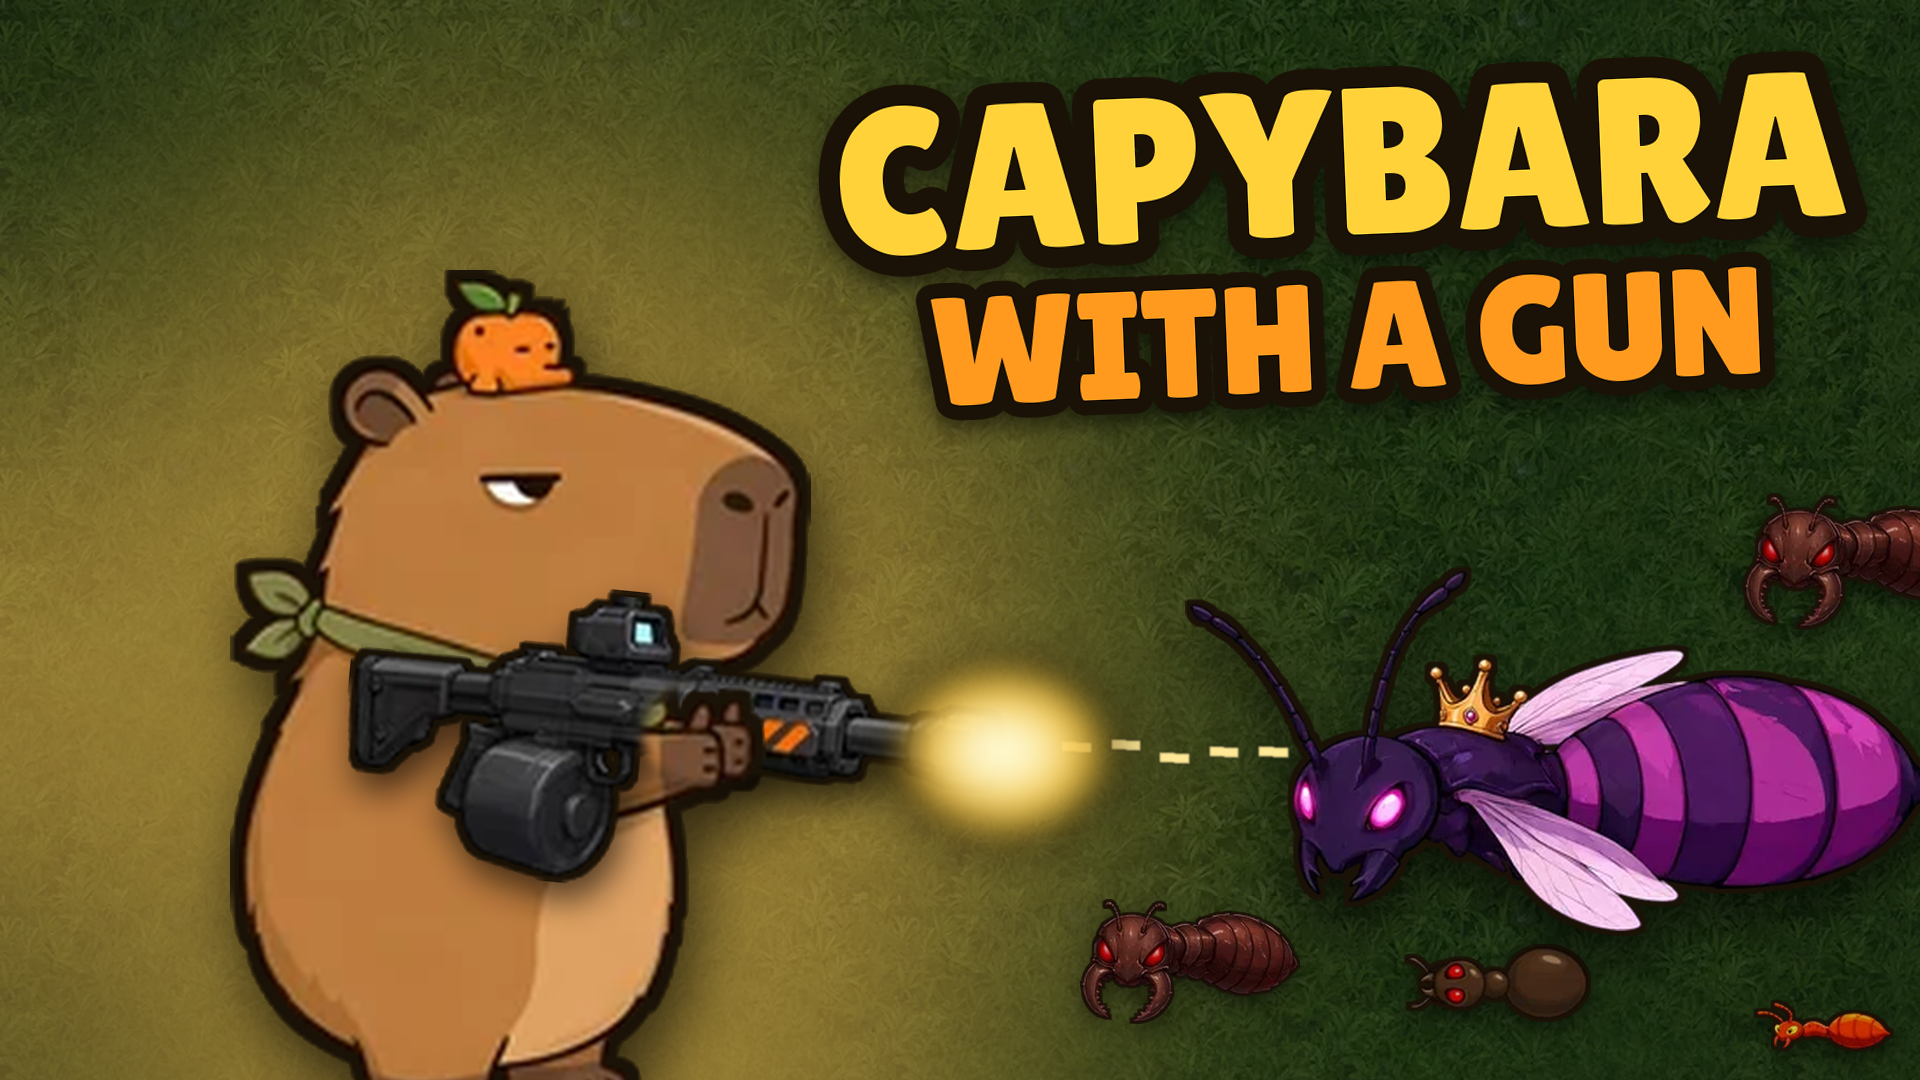
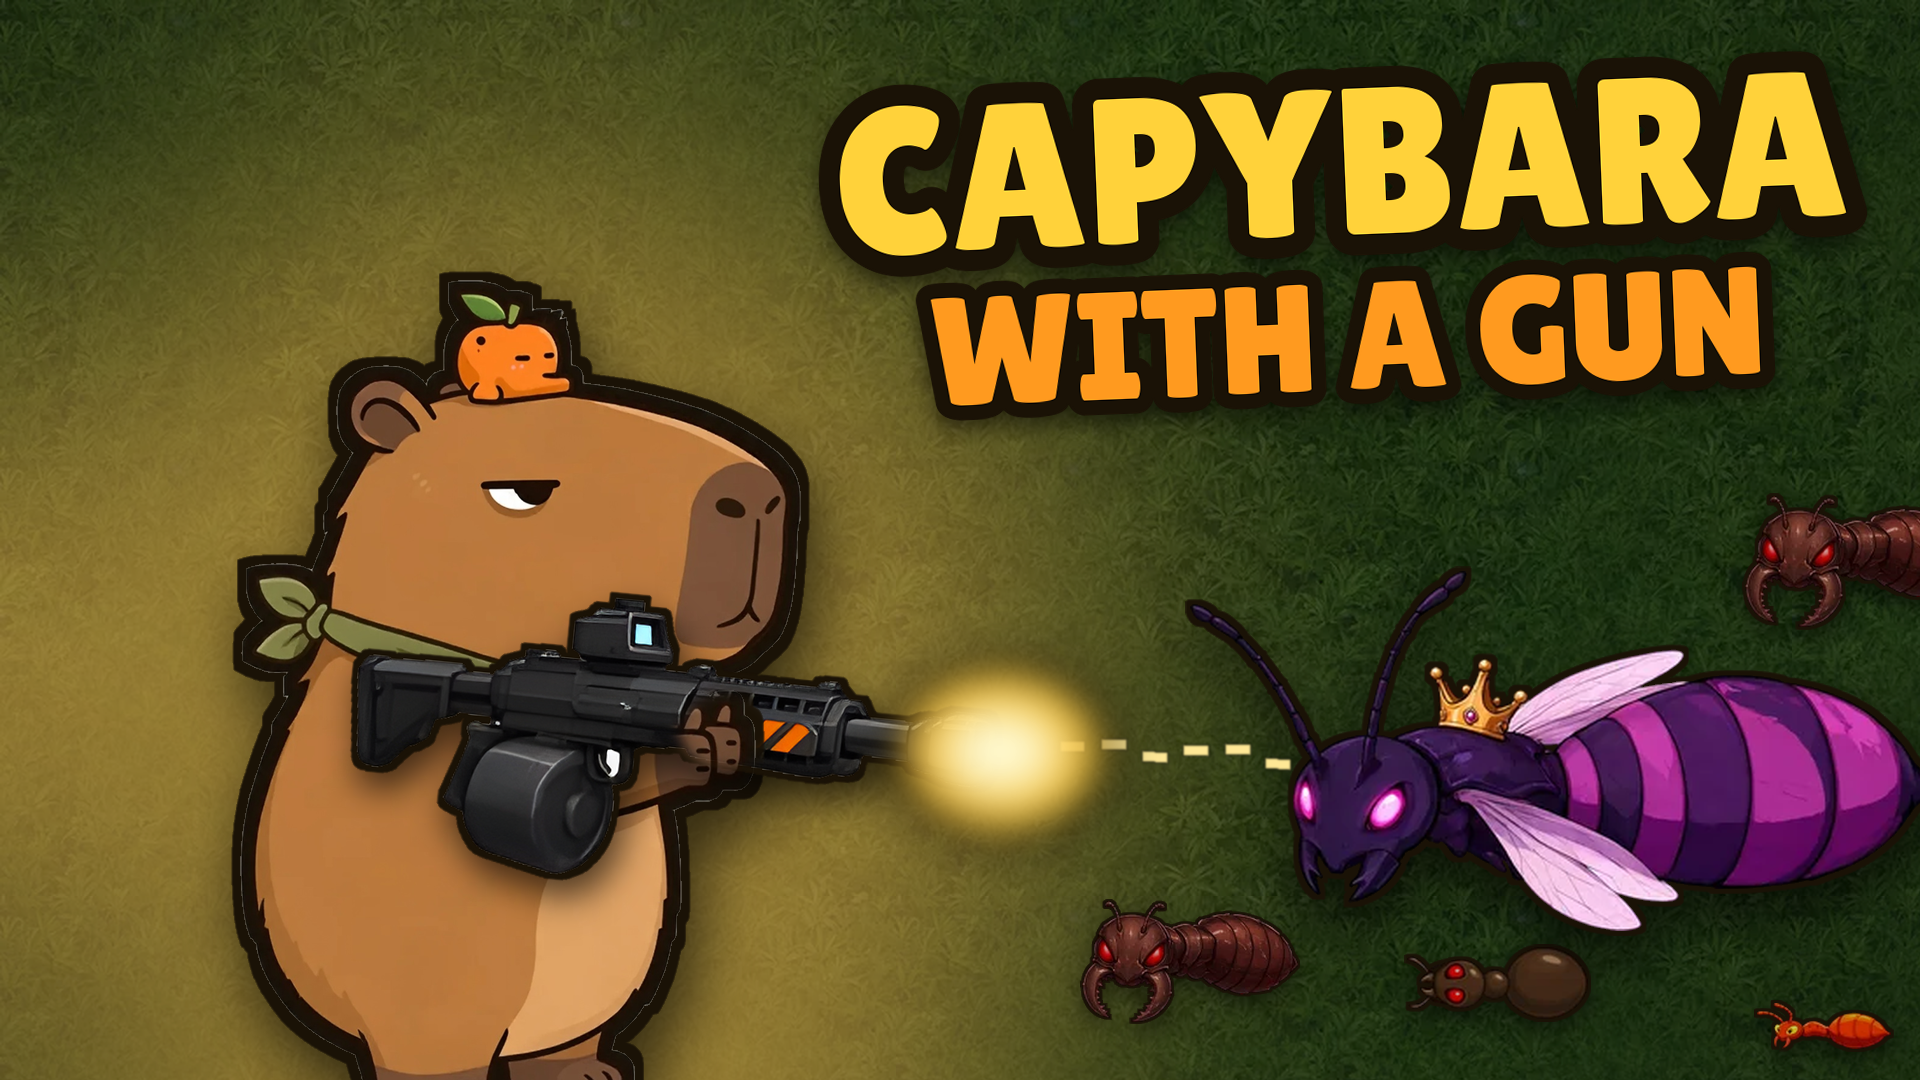
CrazyGames covers: a high-resolution capybara and minigun
The capybara sprite is 131x200, so on the covers it was scaled up 3-4x and
looked soft at full size. covers/hd/ now has:
- capy.png (926x1380): the capybara redrawn at high resolution with Pixa
  (Muse Image), using the game sprite as the reference. It's the same pose,
  colours and design (sleepy eye, the orange with its little face, the green
  bandana), with crisp lines.
- gun_gunner_1.png (720x320): the minigun sprite upscaled 4x with Pixa.

keyart.py uses these when they're there and falls back to the game sprites,
and the paw patch over the grip is tighter so no chest shows through the
gun. Pixa's generator wouldn't take a reference with the gun in it (content
filter), hence the separate upscale.

diff --git a/platform/crazygames/covers/keyart.py b/platform/crazygames/covers/keyart.py
@@ -10,8 +10,9 @@ Needs Pillow, fontTools and brotli (pip install pillow fonttools brotli).
 
 CrazyGames puts badges ("Hot", "Updated") in a label zone at the top-left of each cover, roughly 36% x 20%
 (landscape), 40% x 10% (portrait) and 35% x 30% (square). Nothing important goes there, and the title is
-the only text, as CrazyGames requires. The sprites are small (the capybara is 131x200), so they are scaled
-up 3-4x: soft at full size, sharp at the sizes the covers are actually shown.
+the only text, as CrazyGames requires. The capybara and its minigun come from hd/: a high-resolution redraw
+of the capybara (Pixa, Muse Image, from the game sprite) and the minigun sprite upscaled 4x (Pixa upscale),
+both cut out of a flat background. Everything else is a game sprite scaled up 3-4x.
 """
 import base64, io, json, math, os, random, re
 from PIL import Image, ImageDraw, ImageFilter, ImageFont, ImageOps, ImageEnhance
@@ -43,6 +44,13 @@ def sprite(name):
 def clean(im, cut=60):
     r, g, b, a = im.split(); return Image.merge('RGBA', (r, g, b, a.point(lambda v: 0 if v < cut else v)))
 def up(im, f): return clean(im.resize((round(im.width * f), round(im.height * f)), Image.LANCZOS))
+def big(name, f):
+    """a sprite at f times its game size: from the high-resolution redraw in hd/ when there is one (the capybara
+    and the minigun, made with Pixa from the game sprites), otherwise the game sprite scaled up"""
+    sp = sprite(name); w, h = round(sp.width * f), round(sp.height * f)
+    p = os.path.join(HERE, 'hd', name + '.png')
+    if not os.path.exists(p): return up(sp, f)
+    return clean(Image.open(p).convert('RGBA').resize((w, h), Image.LANCZOS))
 def pad(im, p):
     c = Image.new('RGBA', (im.width + 2 * p, im.height + 2 * p)); c.alpha_composite(im, (p, p)); return c
 def outline(im, px, col=(26, 18, 6, 255)):
@@ -94,10 +102,10 @@ def cover(shape, W, H, s, capx, drop, qs, qhead, title, ants, seed=4):
         shadow(bg, a, x, y, 10, (0, 8), 120); paste(bg, a, x, y)
 
     # the capybara, its minigun and where the barrel ends up
-    c = outline(up(sprite('capy'), s), max(6, round(s * 2)))
+    c = outline(big('capy', s), max(6, round(s * 2)))
     cx, cy = capx - c.width / 2, H - c.height + drop
     grip = (cx + 0.82 * c.width, cy + 0.53 * c.height)            # its front paw
-    gun0 = outline(up(sprite('gun_gunner_1'), s * 0.84), max(4, round(s * 1.4)))
+    gun0 = outline(big('gun_gunner_1', s * 0.84), max(4, round(s * 1.4)))
     a0 = gun0.split()[3]; xs = [x for x in range(gun0.width) if any(a0.getpixel((x, y)) for y in range(gun0.height))]
     tip_x = xs[-1]; tip_ys = [y for y in range(gun0.height) if a0.getpixel((tip_x - 3, y))]
     tip0 = (tip_x, sum(tip_ys) / len(tip_ys)); grip0 = (0.55 * gun0.width, 0.46 * gun0.height)
@@ -124,7 +132,7 @@ def cover(shape, W, H, s, capx, drop, qs, qhead, title, ants, seed=4):
     shadow(bg, c, cx, cy, 30, (10, 30), 170); paste(bg, c, cx, cy)
     shadow(bg, gun, gx, gy, 16, (6, 18), 160); paste(bg, gun, gx, gy)
     # the front paw goes back over the gun, so the capybara is holding it
-    pm = Image.new('L', c.size, 0); px, py = 0.82 * c.width, 0.53 * c.height; r = 15 * s
+    pm = Image.new('L', c.size, 0); px, py = 0.85 * c.width, 0.525 * c.height; r = 10.5 * s
     ImageDraw.Draw(pm).ellipse((px - r, py - r * 0.85, px + r * 1.12, py + r * 0.8), fill=255)
     pa = c.copy(); pa.putalpha(Image.composite(c.split()[3], Image.new('L', c.size, 0), pm.filter(ImageFilter.GaussianBlur(s * 1.4))))
     paste(bg, pa, cx, cy)

diff --git a/platform/crazygames/store/STORE-TEXT.md b/platform/crazygames/store/STORE-TEXT.md
@@ -75,7 +75,7 @@ Landscape and portrait both work. The layout fits the screen it's given.
 | `cover-portrait-800x1200.png` | 800×1200 (2:3) |
 | `cover-square-800x800.png` | 800×800 (1:1) |
 
-These are key art: a big capybara firing its minigun at the Ant Queen, put together from the game's own sprites by `../covers/keyart.py` (run it from the repo root to rebuild them). The first covers were gameplay frames, but at thumbnail size the capybara was a speck in a field of grass, and the click-through rate during Basic Launch was 0.55%, below the bottom 20% of shooting games. The capybara, the title and the queen keep clear of the top-left label zone, where CrazyGames puts its badges, and the script warns if anything strays into it. The only text on them is the title, as CrazyGames requires. The game's art was made with Pixa. CrazyGames publishes no AI-art policy, but say so if they ask.
+These are key art: a big capybara firing its minigun at the Ant Queen, put together from the game's own sprites, with a high-resolution redraw of the capybara and its minigun (made with Pixa from the game sprites, in `../covers/hd/`), by `../covers/keyart.py` (run it from the repo root to rebuild them). The first covers were gameplay frames, but at thumbnail size the capybara was a speck in a field of grass, and the click-through rate during Basic Launch was 0.55%, below the bottom 20% of shooting games. The capybara, the title and the queen keep clear of the top-left label zone, where CrazyGames puts its badges, and the script warns if anything strays into it. The only text on them is the title, as CrazyGames requires. The game's art was made with Pixa. CrazyGames publishes no AI-art policy, but say so if they ask.
 
 
 ## Gameplay videos
